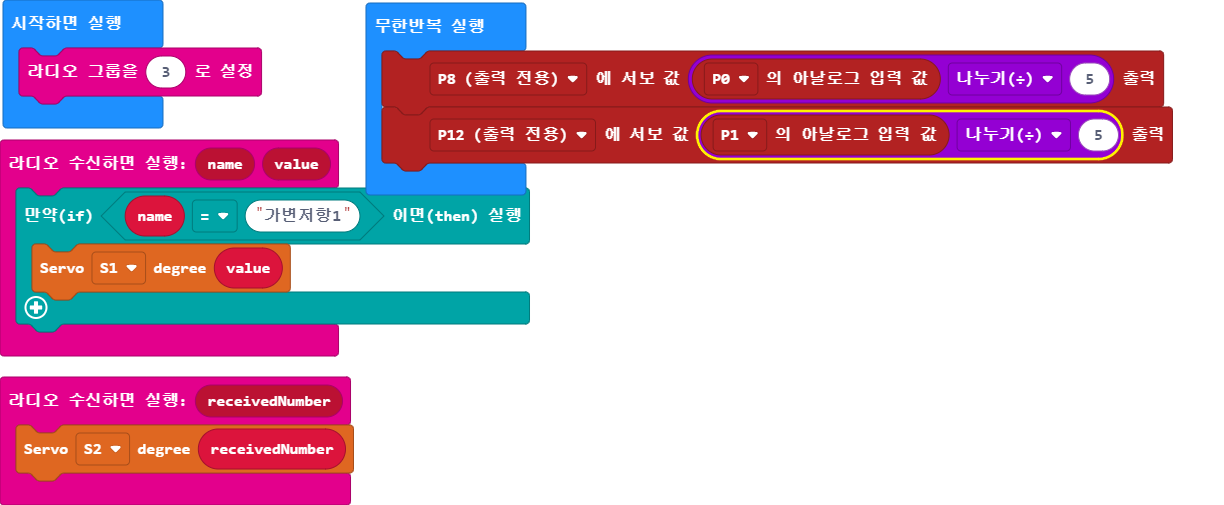
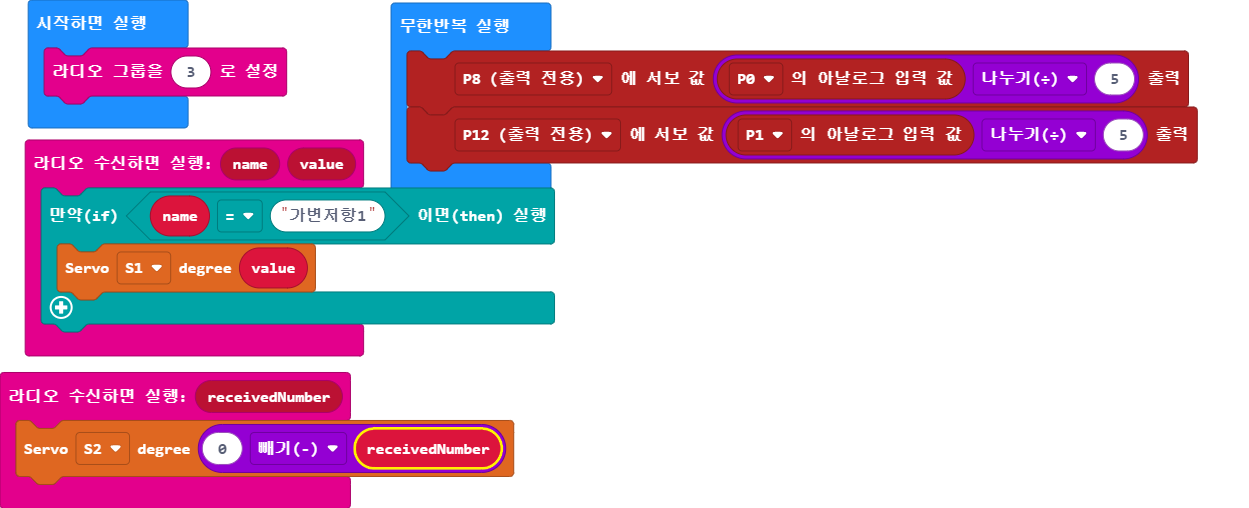
Update main.blocks, main.ts

Changed region(s): [[0.0, 0.0, 0.9624, 1.0]]

diff --git a/main.ts b/main.ts
@@ -1,5 +1,5 @@
 radio.onReceivedNumber(function (receivedNumber) {
-    motor.servo(motor.Servos.S2, receivedNumber)
+    motor.servo(motor.Servos.S2, 0 - receivedNumber)
 })
 radio.onReceivedValue(function (name, value) {
     if (name == "가변저항1") {
